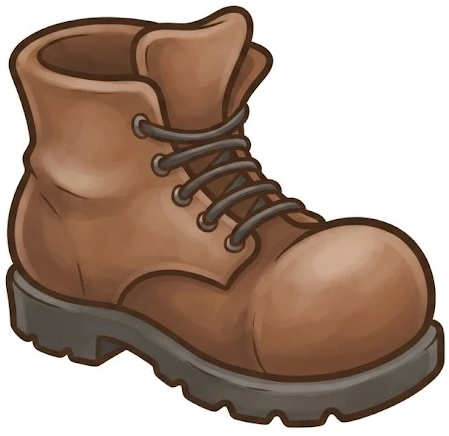
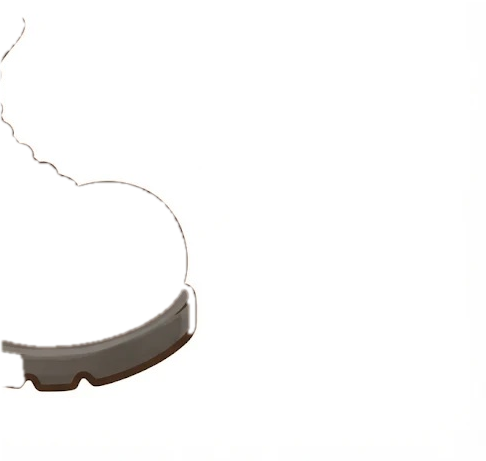
Painted Coral Reef background
The character-free reef painting is now the hub's background (1280x640 crop
keeping the sand floor). Sidney moved off the painted crab on the rock, the
sandcastle sits on the open sand, and the anemone hotspot now covers the
painting's own anemone: a new `in_background` hotspot key tells the web
build not to draw a prop when the scene has a painted background.

Claude-Session: https://claude.ai/code/session_01PVj2zEM8Rz5Kw93aMQvH5k

diff --git a/bakers-undersea-adventure/web/js/content.js b/bakers-undersea-adventure/web/js/content.js
@@ -270,14 +270,14 @@ window.BUA_CONTENT = {
      "type": "npc",
      "character": "sidney",
      "rect": [
-      950,
-      470,
-      100,
-      70
+      860,
+      480,
+      110,
+      80
      ],
      "walk_to": [
-      880,
-      570
+      790,
+      575
      ],
      "dialogue": [
       {
@@ -398,8 +398,8 @@ window.BUA_CONTENT = {
      "id": "sandcastle",
      "type": "humor",
      "rect": [
-      820,
-      560,
+      640,
+      565,
       110,
       60
      ],
@@ -419,10 +419,10 @@ window.BUA_CONTENT = {
      "id": "anemone",
      "type": "humor",
      "rect": [
-      120,
+      400,
       540,
-      90,
-      80
+      130,
+      95
      ],
      "label": "anemone",
      "color": [
@@ -430,6 +430,7 @@ window.BUA_CONTENT = {
       140,
       180
      ],
+     "in_background": true,
      "text": [
       "Wiggly! The anemone tickles my fin.",
       "The anemone sneezes. Anemones can't sneeze. ...Can they?",

diff --git a/bakers-undersea-adventure/web/js/image_index.js b/bakers-undersea-adventure/web/js/image_index.js
@@ -1,2 +1,2 @@
 // GENERATED by tools/build_web.py: painted assets present in web/assets/images.
-window.BUA_IMAGES = ["backgrounds/kelp_forest.jpg", "characters/baker.png", "characters/baker_talk.png", "characters/coral.png", "characters/grandma.png", "characters/puffer.png", "characters/shelly.png", "characters/sidney.png", "items/bubble_helmet.png", "items/conch_shell.png", "props/old_boot.png", "props/stuck_shell.png", "title.jpg"];
+window.BUA_IMAGES = ["backgrounds/coral_reef.jpg", "backgrounds/kelp_forest.jpg", "characters/baker.png", "characters/baker_talk.png", "characters/coral.png", "characters/grandma.png", "characters/puffer.png", "characters/shelly.png", "characters/sidney.png", "items/bubble_helmet.png", "items/conch_shell.png", "props/old_boot.png", "props/stuck_shell.png", "title.jpg"];

diff --git a/bakers-undersea-adventure/web/js/scene.js b/bakers-undersea-adventure/web/js/scene.js
@@ -117,6 +117,7 @@
       const items = [];
       for (const hs of this.visible()) {
         if (hs.draw === false) continue;
+        if (hs.in_background && this.painted) continue;        // the painted background already shows it
         const r = hs.rect;
         if (hs.type === "npc" && hs.character) {
           const talking = this.talkingTo === hs.id && g.dialogue.speaker() === hs.character;
@@ -173,6 +174,7 @@
       const items = [];
       for (const hs of this.visible()) {
         if (hs.draw === false) continue;
+        if (hs.in_background && this.painted) continue;        // the painted background already shows it
         const r = hs.rect;
         if (hs.type === "npc" && hs.character) {
           const talking = this.talkingTo === hs.id && g.dialogue.speaker() === hs.character;

diff --git a/bakers-undersea-adventure/game/scenes/base_scene.py b/bakers-undersea-adventure/game/scenes/base_scene.py
@@ -11,6 +11,7 @@ Hotspot schema (all optional keys marked with ?):
     item:   item (item id), pickup_flag? (defaults to picked_<id>)
     humor:  text: str | [str], speaker?, sound?, actions?
     exit:   to, spawn?, requires?: cond, blocked?: [actions]
+    in_background?: true   (web build: not drawn when the scene has a painted background)
     object: on_click?: [actions], dialogue?: id|[...], examine?: str
     any:    use?: {item_id | "*": [actions] | {"actions": [...], "consume": bool}}
 """
